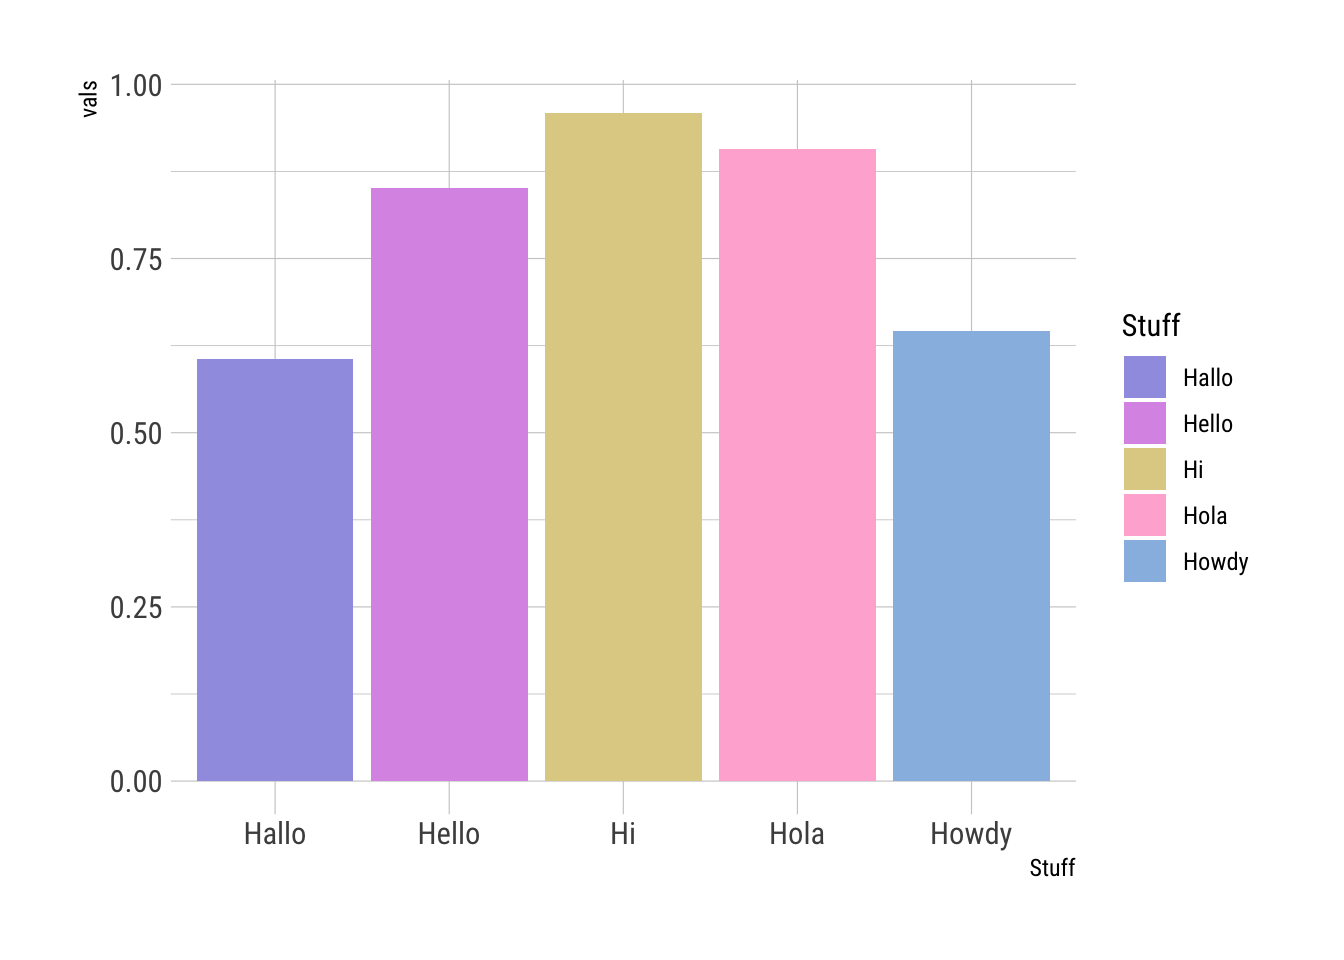
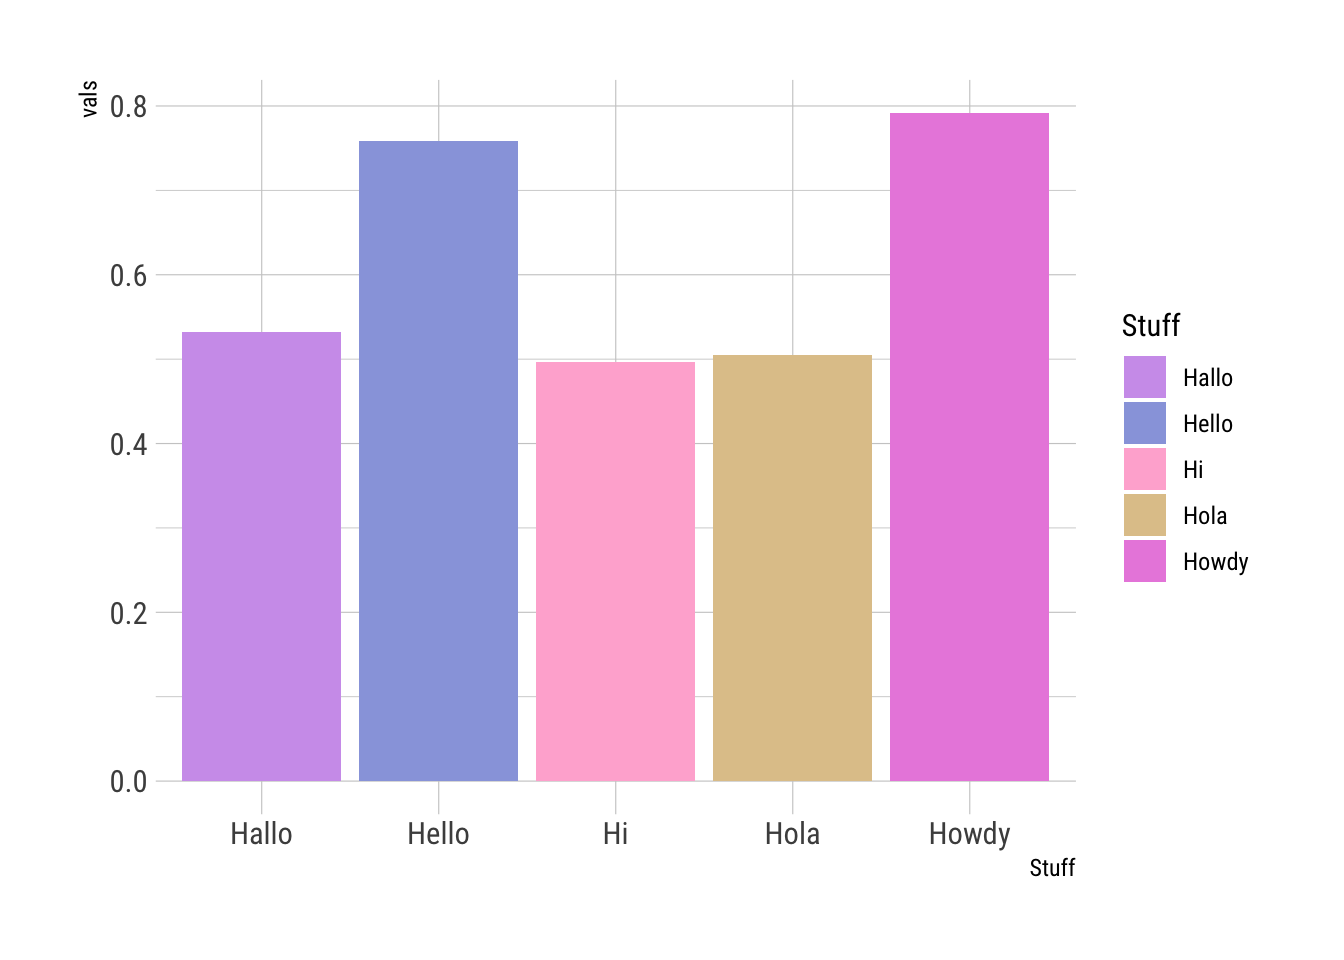
Try this

diff --git a/docs/where.html b/docs/where.html
@@ -166,8 +166,8 @@ robertwwalker.github.io <br>
 </div><div class="column" style="width:50%;">
 <div class="cell">
 <div class="cell-output-display">
-<div class="leaflet html-widget html-fill-item-overflow-hidden html-fill-item" id="htmlwidget-81704edd13d87224fd98" style="width:100%;height:464px;"></div>
-<script type="application/json" data-for="htmlwidget-81704edd13d87224fd98">{"x":{"options":{"crs":{"crsClass":"L.CRS.EPSG3857","code":null,"proj4def":null,"projectedBounds":null,"options":{}}},"setView":[[44.9362,-123.0339],15,[]],"calls":[{"method":"addTiles","args":["https://{s}.tile.openstreetmap.org/{z}/{x}/{y}.png",null,null,{"minZoom":0,"maxZoom":18,"tileSize":256,"subdomains":"abc","errorTileUrl":"","tms":false,"noWrap":false,"zoomOffset":0,"zoomReverse":false,"opacity":1,"zIndex":1,"detectRetina":false,"attribution":"&copy; <a href=\"https://openstreetmap.org\">OpenStreetMap<\/a> contributors, <a href=\"https://creativecommons.org/licenses/by-sa/2.0/\">CC-BY-SA<\/a>"}]},{"method":"addPopups","args":[44.9362,-123.0339,"<b>Mudd Hall 401<\/b><br/>315 Winter St. SE<br/>Salem, OR 97301<br/>Enter Mudd Building<br/>Take the 2nd floor Northeast stairs<br/>Office 401 is two flights up, on Floor 4",null,null,{"maxWidth":300,"minWidth":50,"autoPan":true,"keepInView":false,"closeButton":false,"className":""}]}],"limits":{"lat":[44.9362,44.9362],"lng":[-123.0339,-123.0339]}},"evals":[],"jsHooks":[]}</script>
+<div class="leaflet html-widget html-fill-item-overflow-hidden html-fill-item" id="htmlwidget-847bcd214094ce6ed25e" style="width:100%;height:464px;"></div>
+<script type="application/json" data-for="htmlwidget-847bcd214094ce6ed25e">{"x":{"options":{"crs":{"crsClass":"L.CRS.EPSG3857","code":null,"proj4def":null,"projectedBounds":null,"options":{}}},"setView":[[44.9362,-123.0339],15,[]],"calls":[{"method":"addTiles","args":["https://{s}.tile.openstreetmap.org/{z}/{x}/{y}.png",null,null,{"minZoom":0,"maxZoom":18,"tileSize":256,"subdomains":"abc","errorTileUrl":"","tms":false,"noWrap":false,"zoomOffset":0,"zoomReverse":false,"opacity":1,"zIndex":1,"detectRetina":false,"attribution":"&copy; <a href=\"https://openstreetmap.org\">OpenStreetMap<\/a> contributors, <a href=\"https://creativecommons.org/licenses/by-sa/2.0/\">CC-BY-SA<\/a>"}]},{"method":"addPopups","args":[44.9362,-123.0339,"<b>Mudd Hall 401<\/b><br/>315 Winter St. SE<br/>Salem, OR 97301<br/>Enter Mudd Building<br/>Take the 2nd floor Northeast stairs<br/>Office 401 is two flights up, on Floor 4",null,null,{"maxWidth":300,"minWidth":50,"autoPan":true,"keepInView":false,"closeButton":false,"className":""}]}],"limits":{"lat":[44.9362,44.9362],"lng":[-123.0339,-123.0339]}},"evals":[],"jsHooks":[]}</script>
 </div>
 </div>
 </div>

diff --git a/docs/posts/Another Post/index.html b/docs/posts/Another Post/index.html
@@ -251,7 +251,7 @@ robertwwalker.github.io <br>
 <div class="sourceCode cell-code" id="cb2"><pre class="sourceCode r code-with-copy"><code class="sourceCode r"><span id="cb2-1"><a href="#cb2-1" aria-hidden="true" tabindex="-1"></a>Pigeon.colors</span></code><button title="Copy to Clipboard" class="code-copy-button"><i class="bi"></i></button></pre></div>
 </details>
 <div class="cell-output cell-output-stdout">
-<pre><code>[1] "#A19FE3" "#DB9AE7" "#E0D092" "#FFB3D5" "#97BCE2"</code></pre>
+<pre><code>[1] "#D0A0EC" "#99A5DF" "#FFB3D5" "#E0C699" "#EA8DDF"</code></pre>
 </div>
 </div>
 <p>Now I have a palette in the markdown environment called Pigeon.colors.</p>
@@ -267,11 +267,11 @@ robertwwalker.github.io <br>
 </details>
 <div class="cell-output cell-output-stdout">
 <pre><code>  Stuff      vals
-1    Hi 0.9586970
-2 Howdy 0.6453714
-3 Hello 0.8507200
-4  Hola 0.9077206
-5 Hallo 0.6060044</code></pre>
+1    Hi 0.4964338
+2 Howdy 0.7915532
+3 Hello 0.7584992
+4  Hola 0.5053108
+5 Hallo 0.5320686</code></pre>
 </div>
 </div>
 <p>I want to graph it using a barplot equivalent because I have the height of the bars in <code>vals</code>. Let me use the fill aesthetic to fill the bars in by the five discrete things stored as <code>Stuff</code>. The trick to using it is to manually specify the colors and point it to the <code>Pigeon.colors</code> above.</p>
